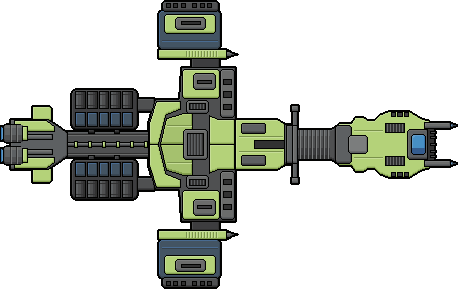
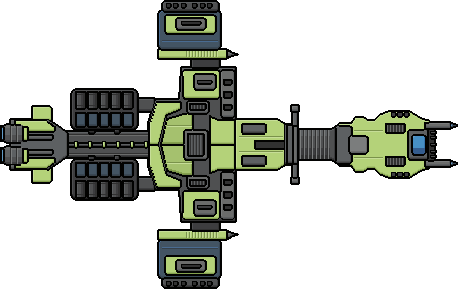
Hamburger menu with Settings (respawn at station); updated ship art with doubled linework
Claude-Session: https://claude.ai/code/session_01PWGMNE9n1KeDkeoKmJog5B

diff --git a/website/game.html b/website/game.html
@@ -84,6 +84,16 @@
     #station button.gold { background: var(--gold); color: #1a1205; border-color: transparent; }
     #station button.gold:hover:not(:disabled) { filter: brightness(1.08); }
     #station button:disabled { opacity: .4; cursor: default; }
+    /* (owner, 2026-10-18) the hamburger: its menu says Settings; Settings offers a respawn at the station */
+    #burger { position: fixed; left: calc(14px + env(safe-area-inset-left, 0px)); top: calc(14px + env(safe-area-inset-top, 0px)); z-index: 8; width: 38px; height: 38px; display: grid; place-content: center; gap: 4px; padding: 0; border: 1px solid var(--rule); border-radius: 7px; background: rgba(18,24,36,.92); cursor: pointer; }
+    #burger i { display: block; width: 18px; height: 2px; border-radius: 1px; background: var(--ink); }
+    #burger:hover { border-color: var(--dim); }
+    #settings { position: fixed; left: calc(14px + env(safe-area-inset-left, 0px)); top: calc(60px + env(safe-area-inset-top, 0px)); width: 300px; max-width: calc(100vw - 28px); z-index: 9; padding: 12px 14px 14px; background: rgba(18,24,36,.96); border: 1px solid var(--rule); border-radius: 6px; box-shadow: 0 20px 55px rgba(0,0,0,.55); animation: panelin .18s ease-out; }
+    #settings[hidden] { display: none; }
+    #settings section { margin-top: 12px; }
+    #settings button { padding: 6px 12px; border: 1px solid var(--rule); border-radius: 4px; background: rgba(255,255,255,.05); color: var(--ink); font: 600 13px var(--f-body); cursor: pointer; }
+    #settings button:hover { background: rgba(255,255,255,.1); }
+    #settings .st-x { padding: 2px 8px; font-size: 14px; }
     #ctx-menu { position: fixed; z-index: 30; display: grid; min-width: 160px; padding: 4px; background: var(--plate); border: 1px solid var(--rule); border-radius: 6px; box-shadow: 0 12px 30px rgba(0,0,0,.5); animation: menuin .12s ease-out; transform-origin: 12px 10px; }
     #ctx-menu[hidden] { display: none; }
     #ctx-menu button { padding: 6px 10px; border: none; border-radius: 4px; background: none; color: var(--ink); text-align: left; font: 13px var(--f-body); cursor: pointer; } #ctx-menu button:hover { background: rgba(255,255,255,.07); }
@@ -133,11 +143,14 @@
   <canvas id="minimap"></canvas>
   <div id="zoom-col"><button id="zoom-in" type="button">+</button><button id="zoom-out" type="button">−</button></div>
   <div id="station" hidden></div>
+  <button id="burger" type="button" aria-label="Menu"><i></i><i></i><i></i></button>
+  <div id="settings" hidden><div class="st-head"><span class="st-title">Settings</span><button class="st-x" id="settings-x" type="button" aria-label="Close">✕</button></div>
+    <section><button id="respawn" type="button">Respawn at station</button></section></div>
   <div id="ctx-menu" hidden></div>
   <div id="tip" hidden></div>
   <div id="status" class="overlay">Connecting…</div>
   <div id="countdown" class="overlay" hidden></div>
   <script src="api.js?v=1792500001"></script>
-  <script type="module" src="game.js?v=1792500021"></script>
+  <script type="module" src="game.js?v=1792500022"></script>
 </body>
 </html>

diff --git a/website/game.js b/website/game.js
@@ -45,7 +45,7 @@ const SPRITE_META = {
   booster: { pivot: [0.423, 0.488], engines: [0.468, 0.548] },
   hauler:  { pivot: [0.405, 0.504], engines: [0.147, 0.368, 0.500, 0.635, 0.868] },
 };
-for (const k of ["miner", "scanner", "booster", "hauler"]) { const im = new Image(); im.src = "assets/ships/" + k + ".png?v=1"; SPRITES[k] = im; }
+for (const k of ["miner", "scanner", "booster", "hauler"]) { const im = new Image(); im.src = "assets/ships/" + k + ".png?v=2"; SPRITES[k] = im; }
 // (owner, 2026-10-18) the jetcan sheet's 66 x 35 sprites, base / party / public, each with its blink frame
 const CAN_SPR = ["base", "party", "public"].map((k) => [k, k + "_blink"].map((n) => { const im = new Image(); im.src = "assets/jetcan/" + n + ".png?v=1"; return im; }));
 const cansM = new Map();                       // id -> { id, x, y, h, kind, units, mine, haul }
@@ -1031,6 +1031,12 @@ function showMenu(x, y, items) {
   ctxMenu.hidden = false; ctxMenu.style.left = Math.min(x, innerWidth - 180) + "px"; ctxMenu.style.top = Math.min(y, innerHeight - ctxMenu.offsetHeight - 8) + "px";
 }
 addEventListener("pointerdown", (e) => { if (!ctxMenu.hidden && !ctxMenu.contains(e.target)) hideMenu(); }, true);
+// (owner, 2026-10-18) the hamburger: a menu with Settings; Settings offers a respawn at the station
+{ const bg = $("burger"), sp = $("settings");
+  bg.addEventListener("click", (e) => { e.stopPropagation(); const r = bg.getBoundingClientRect(); showMenu(r.left, r.bottom + 6, [["Settings", () => { sp.hidden = false; }]]); });
+  $("settings-x").addEventListener("click", () => { sp.hidden = true; });
+  $("respawn").addEventListener("click", () => { send({ t: "act", op: "respawn" }); sp.hidden = true; });
+  addEventListener("keydown", (e) => { if (e.code === "Escape") sp.hidden = true; }); }
 
 // ---- the optional per-ship tutorial (owner, 2026-10-18): each step completes when you actually do it ----
 const tutEv = { cut: false, popped: false, delivered: false, blast: false, refined: false };

diff --git a/packages/server/src/game/world.js b/packages/server/src/game/world.js
@@ -479,6 +479,7 @@ export class World {
       const r = this.rocks.get(m.rock); if (!r) return;
       p.mark = p.mark && p.mark.rock === r.id ? null : { rock: r.id, x: Math.round(r.x), y: Math.round(r.y) };
     } else if (m.op === "jetcan") this.sendJetcan(p);
+    else if (m.op === "respawn") { this.respawn(p.id); p.tractor = false; }   // (owner, 2026-10-18) Settings → respawn at the station (the hold stays aboard)
     else if (m.op === "tractor") { if (this.shipOf(p).tractor) p.tractor = !p.tractor; }
     else if (m.op === "drop") {              // jettison the hold as drops where I sit
       if (p.docked || !p.hold.length) return;

diff --git a/website/index.html b/website/index.html
@@ -37,6 +37,7 @@
         <article class="update">
           <time datetime="2026-10-18">Oct 18, 2026</time>
           <ul>
+            <li><b>Settings.</b> A new menu with settings, including a respawn at the station.</li>
             <li><b>Tractor fields.</b> Miners and Haulers can project holographic fields from their sides that pull in loose ore and jetcans.</li>
             <li><b>Jetcans.</b> Send out a jetcan to stash your ore in space for yourself, your party, or anyone once it goes public.</li>
             <li><b>Ore timers.</b> Loose ore now shows how long it has left before it drifts away.</li>

diff --git a/docs/FEATURES.md b/docs/FEATURES.md
@@ -70,6 +70,7 @@ Every number is in `packages/server/src/game/rules.js` and is sent to the client
 ## Map and HUD
 
 - **The minimap** (bottom left): Saturn, the station, the three rings, the locked line, your ship, ships near you, **your marked rock** (gold diamond; right-click / hold a rock → Mark). A gold arrow circles your ship pointing at the mark, on or off screen, and stays until the rock is unmarked or mined out (owner, 2026-10-18).
+- **The hamburger** (top left, owner, 2026-10-18): its menu says **Settings**; the Settings panel offers **Respawn at station** (the ship reappears just south of the station, hold kept aboard). ✕ or Esc closes it.
 - **The HUD** (bottom center): the Tutorial chip, the ship's name chip and the hold bar, with **one square per ore type above it** (ore color, its count). Names over other ships (dim, bright under the pointer).
 
 ## Live updates (kept)
@@ -79,7 +80,7 @@ Every number is in `packages/server/src/game/rules.js` and is sent to the client
 
 ## The look
 
-- **The design document's style** (`theme.css`): the void, plates with hairline borders, warm ink, Saturn gold for actions, signal red for the laser and the locked line. **Big Shoulders Display**, **Atkinson Hyperlegible**, **JetBrains Mono**, self-hosted. **Ships are pixel-art sprites from the owner's ship sheet** (owner, 2026-10-18: `website/assets/ships/` — Miner, Scanner, Booster, Hauler, cut from the sheet; drawn crisp at the ship's existing size, nose forward; the vector `shipart.js` art stands in only until a sprite loads); the station and Saturn from `shipart.js`; rocks chunk by chunk from the server's geometry in the chunk sheet's style (outlined slabs in three density greys, ore-colored bits, the blue swelling core); each rock's masonry is cached as one bitmap, redrawn when its layout or the zoom changes.
+- **The design document's style** (`theme.css`): the void, plates with hairline borders, warm ink, Saturn gold for actions, signal red for the laser and the locked line. **Big Shoulders Display**, **Atkinson Hyperlegible**, **JetBrains Mono**, self-hosted. **Ships are pixel-art sprites from the owner's ship sheet** (updated 2026-10-18 with doubled linework on the bigger ships; same sizes) (owner, 2026-10-18: `website/assets/ships/` — Miner, Scanner, Booster, Hauler, cut from the sheet; drawn crisp at the ship's existing size, nose forward; the vector `shipart.js` art stands in only until a sprite loads); the station and Saturn from `shipart.js`; rocks chunk by chunk from the server's geometry in the chunk sheet's style (outlined slabs in three density greys, ore-colored bits, the blue swelling core); each rock's masonry is cached as one bitmap, redrawn when its layout or the zoom changes.
 - **Motion:** exhaust trails, laser sparks, **the chunk under a laser bouncing slightly outward while it's cut — the rest of the asteroid holds still** (owner, 2026-10-18: no more whole-rock shake), crack debris, ore bits riding the beam home and the ship swelling as each lands, the piñata's burst rings, shards and screen shake, eased zoom, a camera that looks slightly ahead, a pulsing dock circle — skipped for reduced-motion browsers.
 
 ## Rejected / removed (don't reintroduce)

diff --git a/docs/CHANGELOG.md b/docs/CHANGELOG.md
@@ -4,6 +4,7 @@ Newest first. Add one entry per patch in the same commit, and keep it short: wha
 
 ## 2026-10-18
 
+- **Hamburger menu and Settings (owner):** a hamburger button top left opens a menu with Settings; Settings has Respawn at station (`act` op `respawn`, hold kept). **Updated ship art:** the owner's new sheet with doubled linework on the bigger ships (same pixel sizes, so pivots and engines carry over).
 - **Tractor fields (owner):** F on the Miner and Hauler switches on holographic areas out of both sides of the hull (shaped from the owner's marks, reach scaled up to be useful: Miner ~40 m, Hauler ~62 m past the hull); haulable drops and jetcans inside are pulled in and scooped. Server-tested geometry; tuning gains `tractor`.
 - **Fix — zoom lag (owner report):** while the zoom eases, rocks keep their bitmaps (stretched) instead of re-rendering at each half-octave; once it settles they're redrawn one rock per frame. The chunk edges no longer use a clip (slow), drawn as inset lines instead.
 - **Fix — ship skipping when zoomed in (owner report):** my ship's correction toward the server used a fixed guess of how old each snapshot's position was; snapshots now carry the sim step's time (`st`), the error is low-passed with a small dead zone, and corrections ease in half as fast — snapshot timing noise no longer tugs the ship back and forth.
